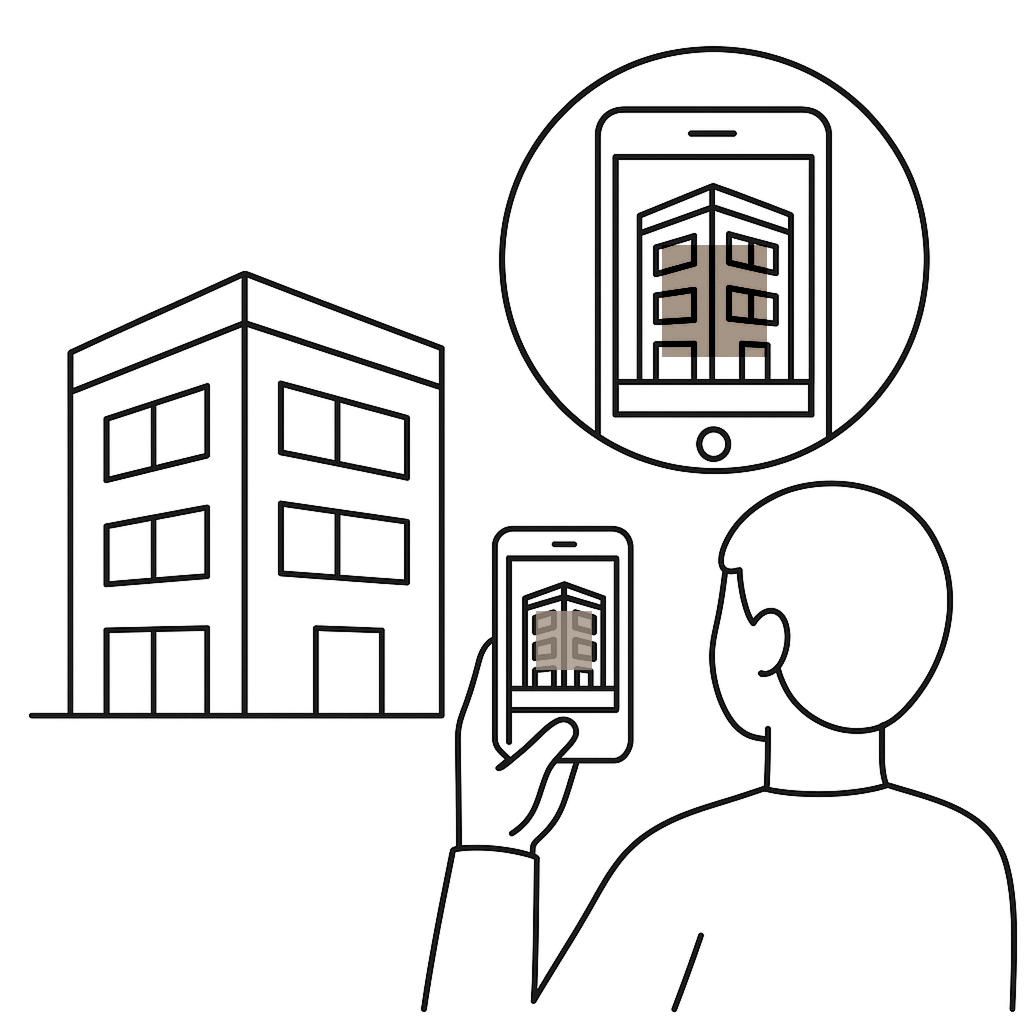
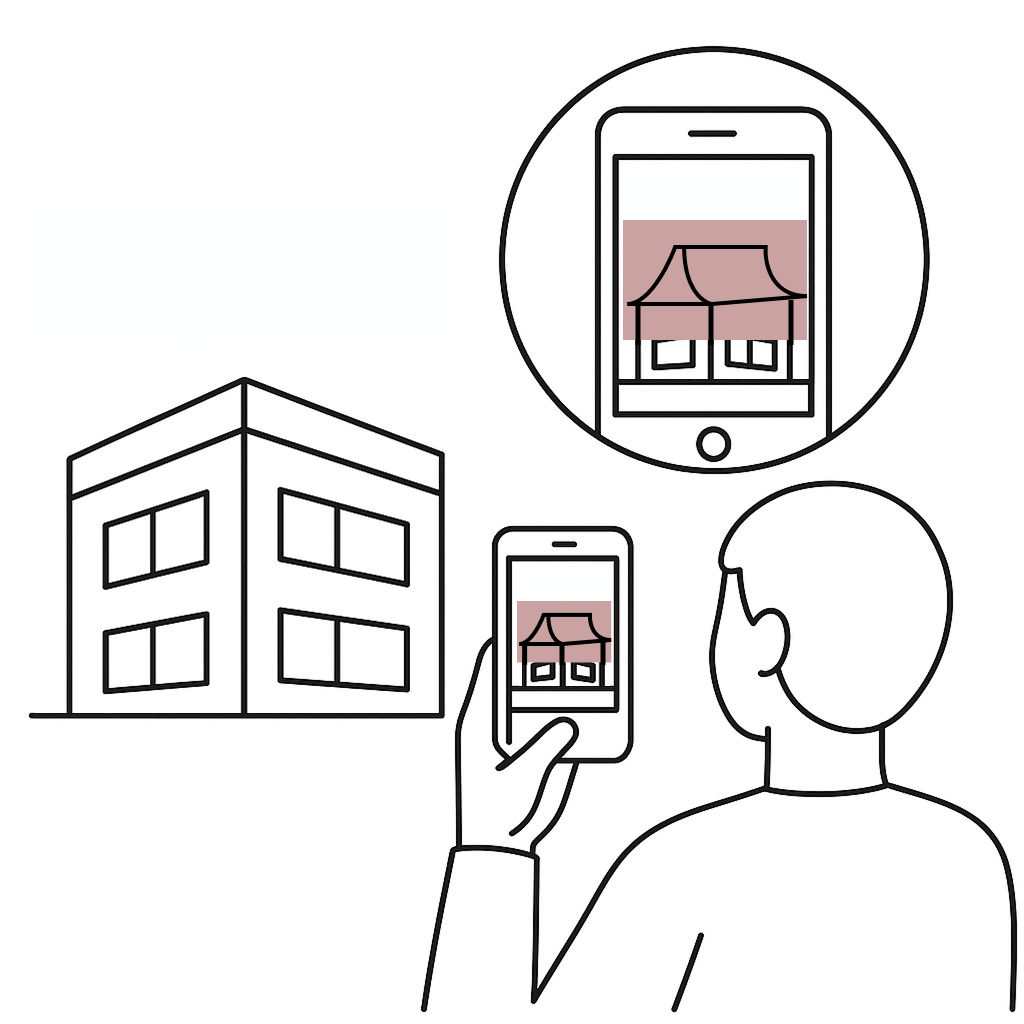
[Design] Onboarding 수정 및 Map에 SafeScreen 추가

Changed region(s): [[0.0625, 0.25, 0.4375, 0.6875], [0.5938, 0.1562, 0.8125, 0.375], [0.5, 0.5625, 0.5938, 0.6875]]

diff --git a/Frontend/src/screens/OnboardingScreen.tsx b/Frontend/src/screens/OnboardingScreen.tsx
@@ -1,11 +1,13 @@
 import React, { useState } from 'react';
-import { View, Text, StyleSheet, Dimensions, TouchableOpacity, FlatList, NativeSyntheticEvent, NativeScrollEvent } from 'react-native';
+import { View, Text, StyleSheet, SafeAreaView, Dimensions, TouchableOpacity, FlatList, NativeSyntheticEvent, NativeScrollEvent } from 'react-native';
 import { useNavigation } from '@react-navigation/native';
 import { NativeStackNavigationProp } from '@react-navigation/native-stack';
 import { RootStackParamList } from '../types/navigation';
 import AsyncStorage from '@react-native-async-storage/async-storage';
 import OnboardingImage1 from '../assets/images/Onboarding_1';
-import { Onboarding2 } from '../assets/images/onboarding2';
+import OnboardingImage2 from '../assets/images/Onboarding_2';
+import { INCHEON_BLUE, INCHEON_BLUE_LIGHT, INCHEON_GRAY } from '../styles/fonts';
+
 
 const { width, height } = Dimensions.get('window');
 
@@ -23,14 +25,16 @@ const OnboardingScreen = () => {
 
   const pages = [
     {
+      key: 'page1',
       title: '인천 타임머신에 오신 것을 환영합니다!',
-      description: '사진으로 과거와 현재를 연결하는\n 특별한 여행을 시작해보세요.',
+      description: '과거와 현재를 사진으로 연결하는\n 특별한 여행을 시작해보세요.',
       component: <OnboardingImage1 />,
     },
     {
+      key: 'page2',
       title: '미션을 통해 여행에 몰입해 보세요!',
-      description: '특정 장소의 스탬프를 획득하고\n 모든 미션을 클리어 해보세요.',
-      component: <Onboarding2 />
+      description: '특정 장소의 스탬프를 획득해서\n 모든 미션을 클리어 해보세요.',
+      component: <OnboardingImage2 />
     },
   ];
 
@@ -73,54 +77,60 @@ const OnboardingScreen = () => {
   };
 
   return (
-    <View style={styles.container}>
-      <TouchableOpacity style={styles.skipButton} onPress={handleSkip}>
-        <Text style={styles.skipText}>건너뛰기</Text>
-      </TouchableOpacity>
+    <SafeAreaView style={styles.safeArea}>
+        <View style={styles.container}>
+          <TouchableOpacity style={styles.skipButton} onPress={handleSkip}>
+            <Text style={styles.skipText}>건너뛰기</Text>
+          </TouchableOpacity>
 
-      <FlatList
-        ref={flatListRef} // 참조 연결
-        data={pages}
-        renderItem={renderItem}
-        horizontal // 가로 스크롤 활성화
-        pagingEnabled // 페이지 단위로 스크롤
-        showsHorizontalScrollIndicator={false} // 스크롤바 숨기기
-        keyExtractor={(item) => item.key!}
-        onViewableItemsChanged={onViewableItemsChanged} // 화면에 보이는 아이템 변경 시 호출
-        viewabilityConfig={{
-          itemVisiblePercentThreshold: 50 // 아이템이 50% 이상 보일 때 viewable로 간주
-        }}
-        onMomentumScrollEnd={onMomentumScrollEnd} // 스크롤 애니메이션이 끝났을 때 호출 (iOS에서 더 정확한 페이지 감지)
-        // contentContainerStyle={{ alignItems: 'center' }} // 각 페이지 콘텐츠를 중앙 정렬하고 싶다면
-      />
+          <FlatList
+            ref={flatListRef} // 참조 연결
+            data={pages}
+            renderItem={renderItem}
+            horizontal // 가로 스크롤 활성화
+            pagingEnabled // 페이지 단위로 스크롤
+            showsHorizontalScrollIndicator={false} // 스크롤바 숨기기
+            keyExtractor={(item) => item.key!}
+            onViewableItemsChanged={onViewableItemsChanged} // 화면에 보이는 아이템 변경 시 호출
+            viewabilityConfig={{
+              itemVisiblePercentThreshold: 50 // 아이템이 50% 이상 보일 때 viewable로 간주
+            }}
+            onMomentumScrollEnd={onMomentumScrollEnd} // 스크롤 애니메이션이 끝났을 때 호출 (iOS에서 더 정확한 페이지 감지)
+            // contentContainerStyle={{ alignItems: 'center' }} // 각 페이지 콘텐츠를 중앙 정렬하고 싶다면
+          />
 
-      <View style={styles.bottomControlsContainer}>
-        <View style={styles.paginationContainer}>
-          {pages.map((_, index) => (
-            <View
-              key={index}
-              style={[
-                styles.paginationDot,
-                index === currentPage && styles.paginationDotActive
-              ]}
-            />
-          ))}
+          <View style={styles.bottomControlsContainer}>
+            <View style={styles.paginationContainer}>
+              {pages.map((_, index) => (
+                <View
+                  key={index}
+                  style={[
+                    styles.paginationDot,
+                    index === currentPage && styles.paginationDotActive
+                  ]}
+                />
+              ))}
+            </View>
+
+            <TouchableOpacity
+              style={styles.nextButton}
+              onPress={handleNext}
+            >
+              <Text style={styles.nextButtonText}>
+                {currentPage === pages.length - 1 ? '시작하기' : '다음'}
+              </Text>
+            </TouchableOpacity>
+          </View>
         </View>
-
-        <TouchableOpacity
-          style={styles.nextButton}
-          onPress={handleNext}
-        >
-          <Text style={styles.nextButtonText}>
-            {currentPage === pages.length - 1 ? '시작하기' : '다음'}
-          </Text>
-        </TouchableOpacity>
-      </View>
-    </View>
+    </SafeAreaView>
   );
 };
 
 const styles = StyleSheet.create({
+  safeArea: {
+    flex: 1, // SafeAreaView가 화면 전체를 차지하도록 설정
+    backgroundColor: '#f0f0f0', // SafeAreaView 자체의 배경색 (선택 사항)
+  },
   container: {
     flex: 1,
     backgroundColor: '#fff',
@@ -155,8 +165,8 @@ const styles = StyleSheet.create({
     marginBottom: 110,
   },
   title: {
+    fontFamily: 'NeoDunggeunmoPro-Regular',
     fontSize: 24,
-    fontWeight: 'bold',
     marginBottom: 16,
     textAlign: 'center',
     color: '#333',
@@ -185,15 +195,15 @@ const styles = StyleSheet.create({
     width: 8,
     height: 8,
     borderRadius: 4,
-    backgroundColor: '#ddd',
+    backgroundColor: '#dddddd',
     marginHorizontal: 4,
   },
   paginationDotActive: {
     width: 24,
-    backgroundColor: '#000',
+    backgroundColor: INCHEON_BLUE_LIGHT,
   },
   nextButton: {
-    backgroundColor: '#000',
+    backgroundColor: INCHEON_BLUE,
     paddingVertical: 16,
     paddingHorizontal: 48,
     borderRadius: 30,
@@ -204,11 +214,7 @@ const styles = StyleSheet.create({
     color: '#fff',
     fontSize: 16,
     fontWeight: 'bold',
-  },
-  // 기존 contentContainer는 FlatList의 각 페이지로 대체되므로 제거하거나 수정
-  // contentContainer: { ... },
-  // image 스타일은 imageContainer 내부에서 관리되므로 제거하거나 수정
-  // image: { ... },
+  }
 });
 
 

diff --git a/Frontend/src/screens/Main/MapScreen.tsx b/Frontend/src/screens/Main/MapScreen.tsx
@@ -5,6 +5,7 @@ import {
   Dimensions,
 } from 'react-native';
 import { WebView } from 'react-native-webview';
+import { SafeAreaView } from 'react-native-safe-area-context';
 
 
 
@@ -17,10 +18,10 @@ const MapScreen: React.FC = () => {
 
 
   return (
-    <View style={styles.container}>
+    <SafeAreaView style={styles.safeArea} edges={['top', 'left', 'right']}>
       {/* 카카오맵 WebView */}
       <WebView
-        source={{ 
+        source={{
           uri: 'https://map.kakao.com/link/map/카카오맵,37.5665,126.9780'
         }}
         style={styles.map}
@@ -36,15 +37,20 @@ const MapScreen: React.FC = () => {
         incognito={false}
         androidLayerType="hardware"
       />
-    </View>
+    </SafeAreaView>
+
   );
 };
 
 const styles = StyleSheet.create({
-  container: {
-    flex: 1,
-    backgroundColor: '#fff',
+  safeArea: {
+    flex: 1, // SafeAreaView가 화면 전체를 차지하도록 설정
+    backgroundColor: '#f0f0f0', // SafeAreaView 자체의 배경색 (선택 사항)
   },
+//   container: {
+//     flex: 1,
+//     backgroundColor: '#fff',
+//   },
   map: {
     flex: 1,
     width: width,

diff --git a/Frontend/src/assets/images/Onboarding_2.tsx b/Frontend/src/assets/images/Onboarding_2.tsx
@@ -4,11 +4,11 @@ import { Image, StyleSheet, View } from 'react-native';
 
 const CIRCLE_DIAMETER = 300;
 
-const OnboardingImage1 = () => {
+const OnboardingImage2 = () => {
   return (
     <View style={styles.container}>
       <Image
-        source={require('../images/Onboarding_1.png')} // 실제 이미지 파일 경로
+        source={require('../images/Onboarding_2.png')} // 실제 이미지 파일 경로
         style={styles.image}
         resizeMode="contain"
       />
@@ -33,4 +33,4 @@ const styles = StyleSheet.create({
   },
 });
 
-export default OnboardingImage1; // export 이름 변경 (선택 사항)
+export default OnboardingImage2; // export 이름 변경 (선택 사항)
